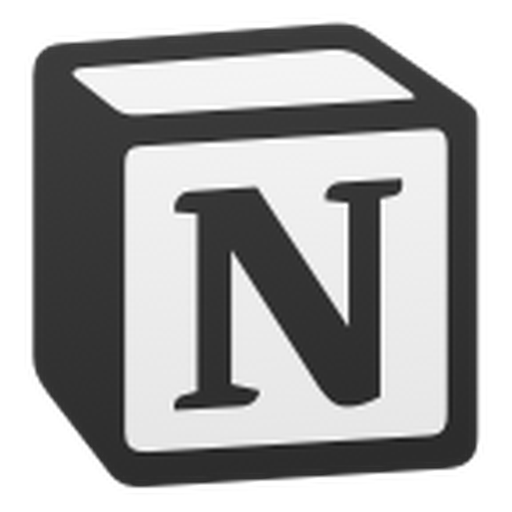
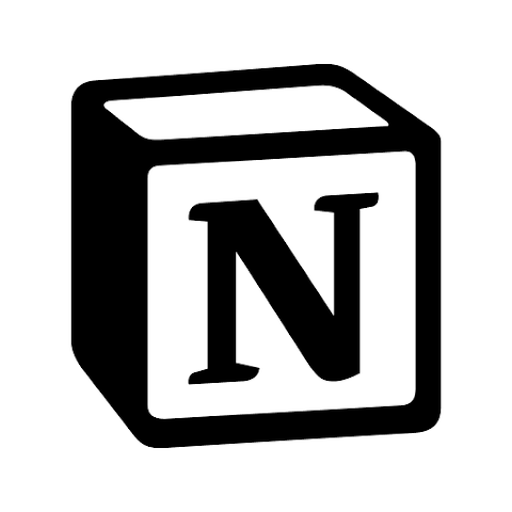
🎨 批量替换 29 个品牌图标、清理 13 个旧变体，NetEaseMusic→NetEaseCloudMusic，同步文档计数（363/247）

diff --git a/README.md b/README.md
@@ -17,7 +17,7 @@
   <img src="https://img.shields.io/github/stars/Hawaiine/Oasisic-Icons?style=flat-square" alt="Stars">
   <img src="https://img.shields.io/github/last-commit/Hawaiine/Oasisic-Icons?style=flat-square" alt="Last Commit">
   <img src="https://img.shields.io/github/repo-size/Hawaiine/Oasisic-Icons?style=flat-square" alt="Repo Size">
-  <img src="https://img.shields.io/badge/icons-374-blue?style=flat-square" alt="Icons Count">
+  <img src="https://img.shields.io/badge/icons-363-blue?style=flat-square" alt="Icons Count">
   <img src="https://img.shields.io/badge/brands-247-green?style=flat-square" alt="Brands Count">
   <img src="https://img.shields.io/badge/categories-21-orange?style=flat-square" alt="Categories Count">
 </p>
@@ -26,12 +26,12 @@
 
 ## 📖 简介 / Introduction
 
-**Oasisic-Icons** 是一套专为代理工具设计的策略组图标合集：当前共 **374** 个 PNG 图标，覆盖 **247** 个品牌，归入 **21** 个分类。
+**Oasisic-Icons** 是一套专为代理工具设计的策略组图标合集：当前共 **363** 个 PNG 图标，覆盖 **247** 个品牌，归入 **21** 个分类。
 
-本项目为独立图标仓库，**374 个图标全部经过统一规范化处理**（512×512 / RGBA / Apple 风格 squircle 圆角），适配 Surge、Loon、Clash Meta / Mihomo、Stash、Quantumult X、Egern 等主流代理客户端。
+本项目为独立图标仓库，**363 个图标全部经过统一规范化处理**（512×512 / RGBA / Apple 风格 squircle 圆角），适配 Surge、Loon、Clash Meta / Mihomo、Stash、Quantumult X、Egern 等主流代理客户端。
 
 > **画质规范（贡献与替换标准）**：512×512 方形 PNG，RGBA 模式，Apple 风格 squircle 圆角（圆角半径 ≈ 115px / 约 22.4%），保留原始底色。
-> 仓库内全部图标已完成规范化：**374 / 374 均为 512×512 Apple 风格圆角（r≈115px、保留原始底色）**，经 `scripts/optimize-icons.py` 无损重压缩。处理明细与遗留项见 [`docs/references/icon-quality-notes.md`](docs/references/icon-quality-notes.md)。
+> 仓库内全部图标已完成规范化：**363 / 363 均为 512×512 Apple 风格圆角（r≈115px、保留原始底色）**，经 `scripts/optimize-icons.py` 无损重压缩。处理明细与遗留项见 [`docs/references/icon-quality-notes.md`](docs/references/icon-quality-notes.md)。
 
 ---
 
@@ -179,11 +179,11 @@ static=Netflix, HK, TW, JP, SG, img-url=https://raw.githubusercontent.com/Hawaii
 | 💰 Finance | 金融理财 | 0 | 0 |
 | 🎮 Game | 游戏平台 | 7 | 13 |
 | 🔧 General | 通用策略 | 21 | 48 |
-| 🔍 Google | Google 服务 | 11 | 14 |
+| 🔍 Google | Google 服务 | 11 | 12 |
 | 🏥 Health | 健康与运动 | 0 | 0 |
 | 🎬 Media | 影音流媒体 | 70 | 82 |
 | 🪟 Microsoft | 微软服务 | 4 | 11 |
-| 🎵 Music | 音乐服务 | 12 | 18 |
+| 🎵 Music | 音乐服务 | 12 | 12 |
 | 📰 News | 新闻与资讯 | 2 | 2 |
 | 💳 Payment | 支付 | 5 | 9 |
 | 🌐 Proxy | 代理线路与协议 | 4 | 4 |
@@ -191,8 +191,8 @@ static=Netflix, HK, TW, JP, SG, img-url=https://raw.githubusercontent.com/Hawaii
 | 👥 Social | 社交 | 30 | 35 |
 | ⚡ Surge | Surge 应用图标 | 1 | 15 |
 | 📡 Telecom | 运营商 | 4 | 7 |
-| 🔩 Tool | 工具 | 14 | 17 |
-| **合计** | — | **247** | **374** |
+| 🔩 Tool | 工具 | 14 | 14 |
+| **合计** | — | **247** | **363** |
 
 `Education` / `Finance` / `Health` 目前为空分类（仅保留目录与 README），便于后续按同一规范补充图标。
 

diff --git a/docs/references/icon-quality-notes.md b/docs/references/icon-quality-notes.md
@@ -2,7 +2,7 @@
 
 > 最后扫描：2026-09-19（圆角半径更新为 r=115 / Apple squircle）
 > 扫描方法：遍历 `icons/**/*.png`，读取 Pillow 报告的尺寸 / 色彩模式，并统计文件体积
-> 扫描范围：424 个 PNG（252 个品牌目录 / 21 个分类，含 3 个预留空分类）
+> 扫描范围：363 个 PNG（247 个品牌目录 / 21 个分类，含 3 个预留空分类）
 
 ---
 
@@ -101,13 +101,13 @@
 
 | 项目 | 结果 |
 |------|------|
-| 尺寸 | **424 / 424 = 512×512**（已全量统一） |
+| 尺寸 | **363 / 363 = 512×512**（已全量统一） |
 | 圆角 | 统一 r=115px（≈22.4%，Apple squircle），四角透明（`alpha=0`） |
 | 用户手动更新的图标 | 71 个已合规文件**像素未改动**（规范化脚本自动跳过） |
 | 规范化处理 | 354 个文件由 `scripts/normalize-icons.py` 从原始尺寸（144×144 / 108×108 / 非方形）转换 |
 | 窄条字标 | 4 个（CatchPlay-Plus / HOY / TVer / VideoMarket）由 `scripts/normalize-strips.py` 处理：裁到内容后以白色圆角底块承载（保留原始字标颜色，不抠背景） |
 | 体积 | 合计 ≈ 27.7 MB；平均 64KB / 中位 58KB / 最大 292KB（`icons/Telecom/ChinaBroadnet/ChinaBroadnet.png`） |
-| 模式分布 | RGBA 424（其余色型 0） |
+| 模式分布 | RGBA 363（其余色型 0） |
 
 ## 7. 需要留意
 

diff --git a/icons/Music/README.md b/icons/Music/README.md
@@ -1,6 +1,6 @@
 # 🎵 Music / 音乐服务
 
-> 共 **18** 个图标，**12** 个品牌
+> 共 **12** 个图标，**12** 个品牌
 
 | 品牌 | 图标文件 |
 |:---|:---|
@@ -8,11 +8,11 @@
 | `MusicBrainz` | `MusicBrainz.png ` |
 | `MusicJapan` | `MusicJapan.png ` |
 | `Musixmatch` | `Musixmatch.png ` |
-| `NetEaseMusic` | `NetEaseMusic.png NetEaseMusic01.png NetEaseMusic02.png NetEaseMusic03.png ` |
+| `NetEaseCloudMusic` | `NetEaseCloudMusic.png ` |
 | `Pandora` | `Pandora.png ` |
 | `QQMusic` | `QQMusic.png ` |
 | `Qobuz` | `Qobuz.png ` |
 | `SoundCloud` | `SoundCloud.png ` |
-| `Spotify` | `Spotify.png Spotify01.png ` |
-| `TIDAL` | `TIDAL.png TIDAL01.png TIDAL02.png ` |
+| `Spotify` | `Spotify.png ` |
+| `TIDAL` | `TIDAL.png ` |
 | `mora` | `mora.png ` |

diff --git a/icons/Tool/README.md b/icons/Tool/README.md
@@ -1,19 +1,19 @@
 # 🔩 Tool / 工具
 
-> 共 **17** 个图标，**14** 个品牌
+> 共 **14** 个图标，**14** 个品牌
 
 | 品牌 | 图标文件 |
 |:---|:---|
 | `1Password` | `1Password.png ` |
 | `AdGuard` | `AdGuard.png ` |
 | `Airport` | `Airport.png ` |
-| `Duolingo` | `Duolingo.png Duolingo01.png ` |
-| `GitHub` | `GitHub.png GitHub01.png ` |
+| `Duolingo` | `Duolingo.png ` |
+| `GitHub` | `GitHub.png ` |
 | `Keep` | `Keep.png ` |
 | `Notion` | `Notion.png ` |
 | `Oracle` | `Oracle.png ` |
 | `SF-Express` | `SF-Express.png ` |
-| `Speedtest` | `Speedtest.png Speedtest01.png ` |
+| `Speedtest` | `Speedtest.png ` |
 | `TMDB` | `TMDB.png ` |
 | `Uber` | `Uber.png ` |
 | `Z-Library` | `Z-Library.png ` |

diff --git a/icons/Google/README.md b/icons/Google/README.md
@@ -1,11 +1,11 @@
 # 🔎 Google / Google 服务
 
-> 共 **14** 个图标，**11** 个品牌
+> 共 **12** 个图标，**11** 个品牌
 
 | 品牌 | 图标文件 |
 |:---|:---|
 | `Gmail` | `Gmail.png ` |
-| `Google` | `Google.png Google01.png Google02.png ` |
+| `Google` | `Google.png ` |
 | `GoogleAI` | `GoogleAI.png ` |
 | `GoogleDrive` | `GoogleDrive.png ` |
 | `GoogleMaps` | `GoogleMaps.png ` |
